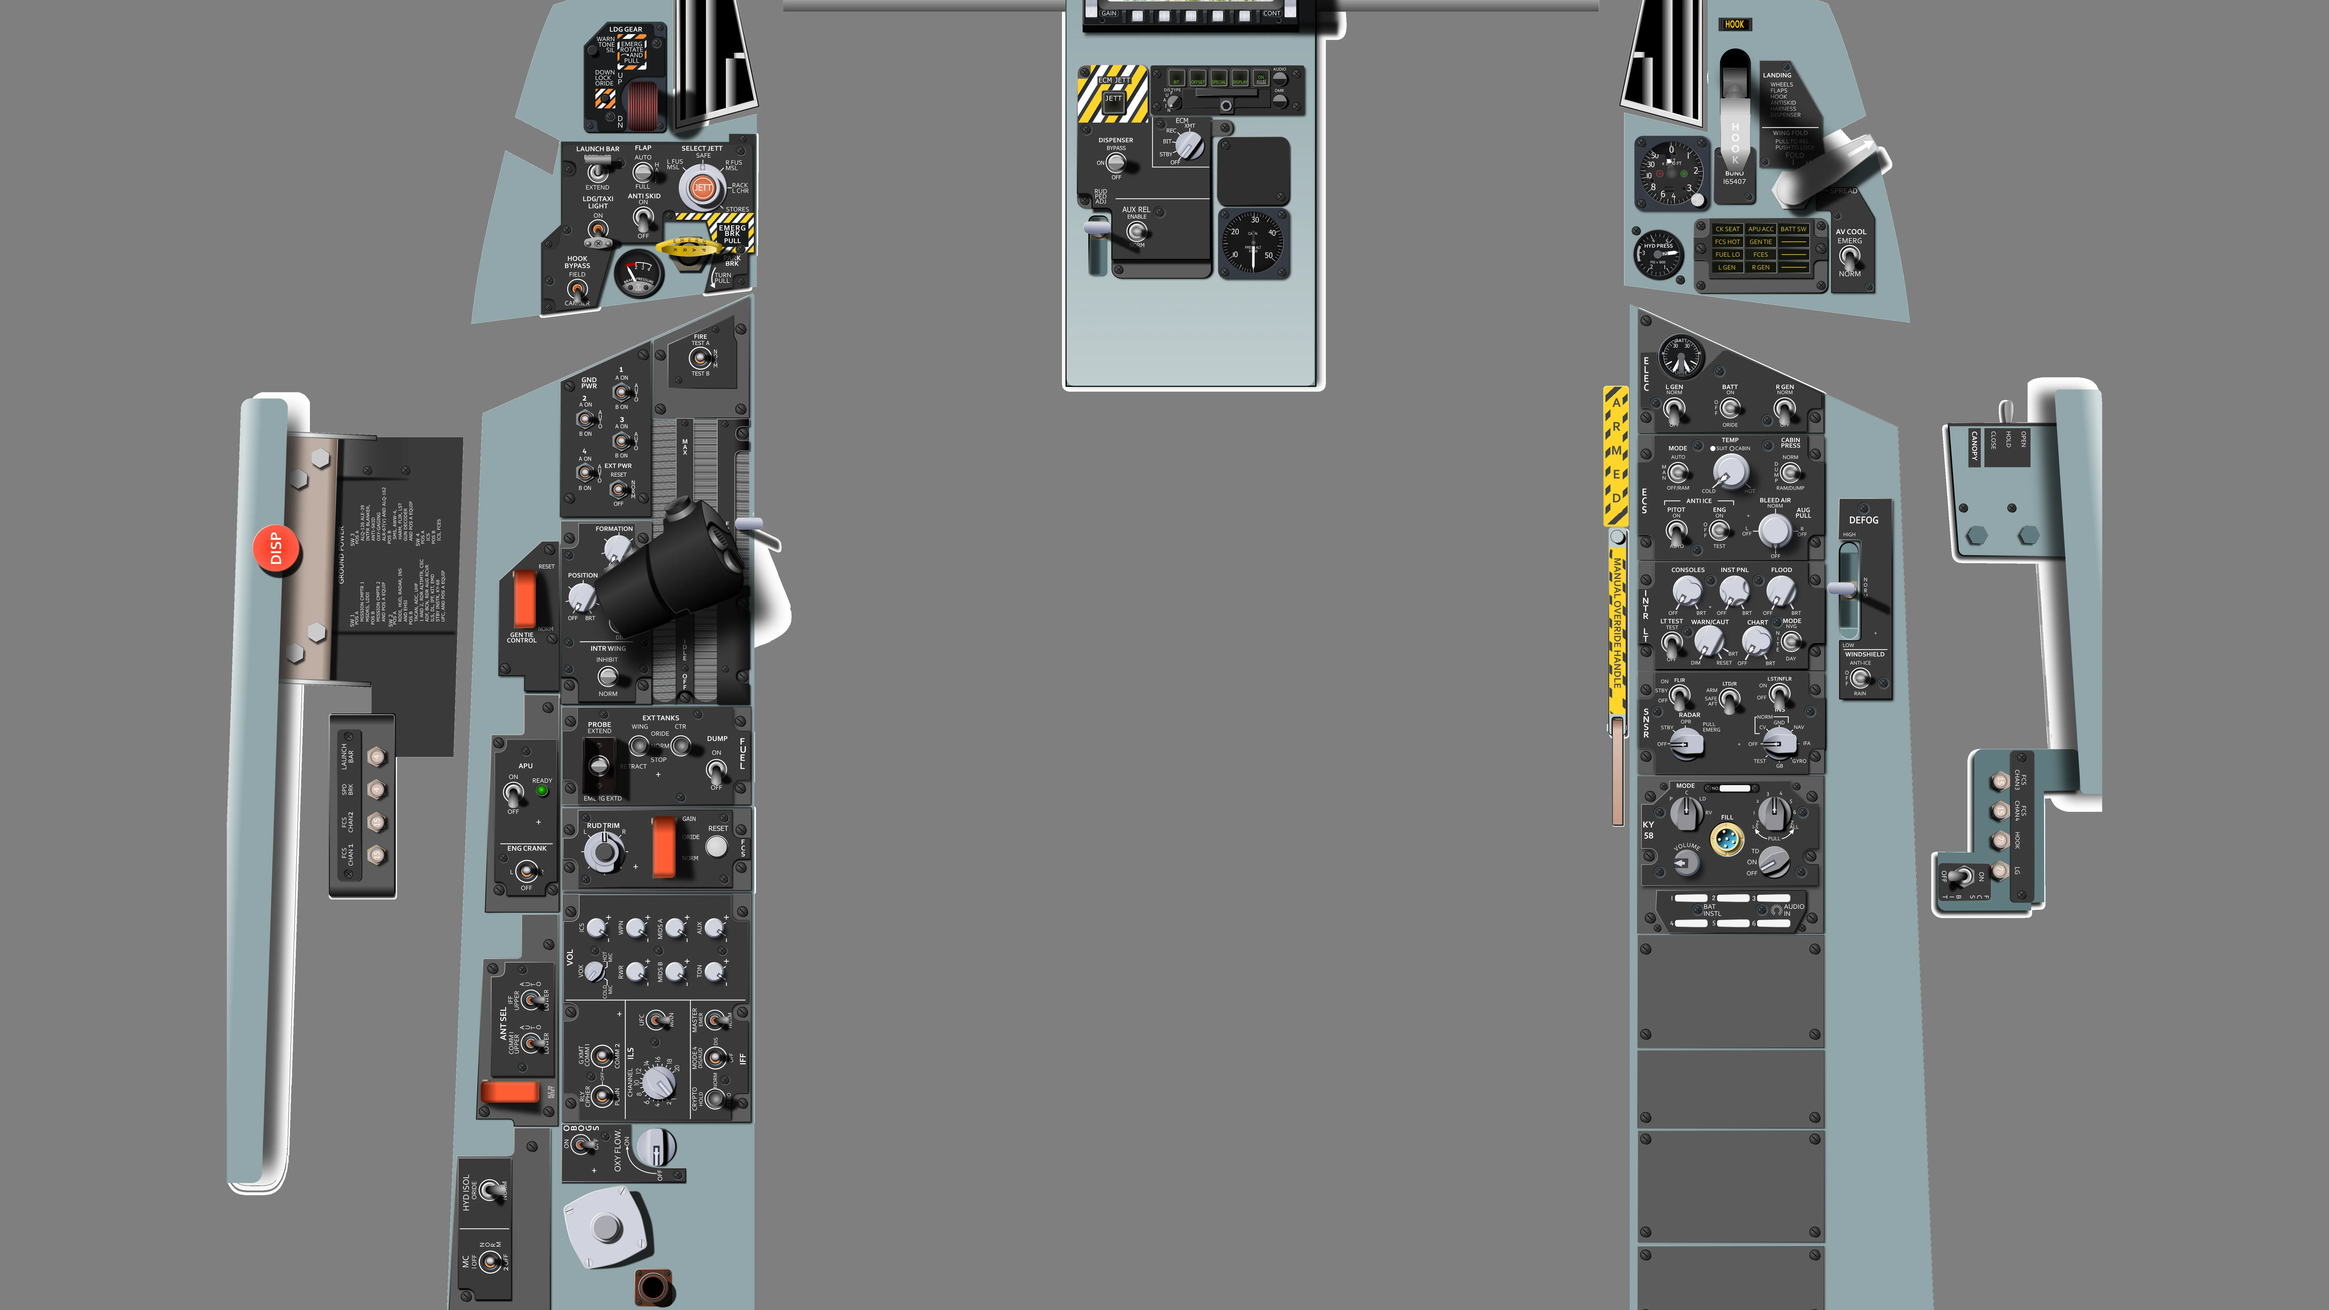
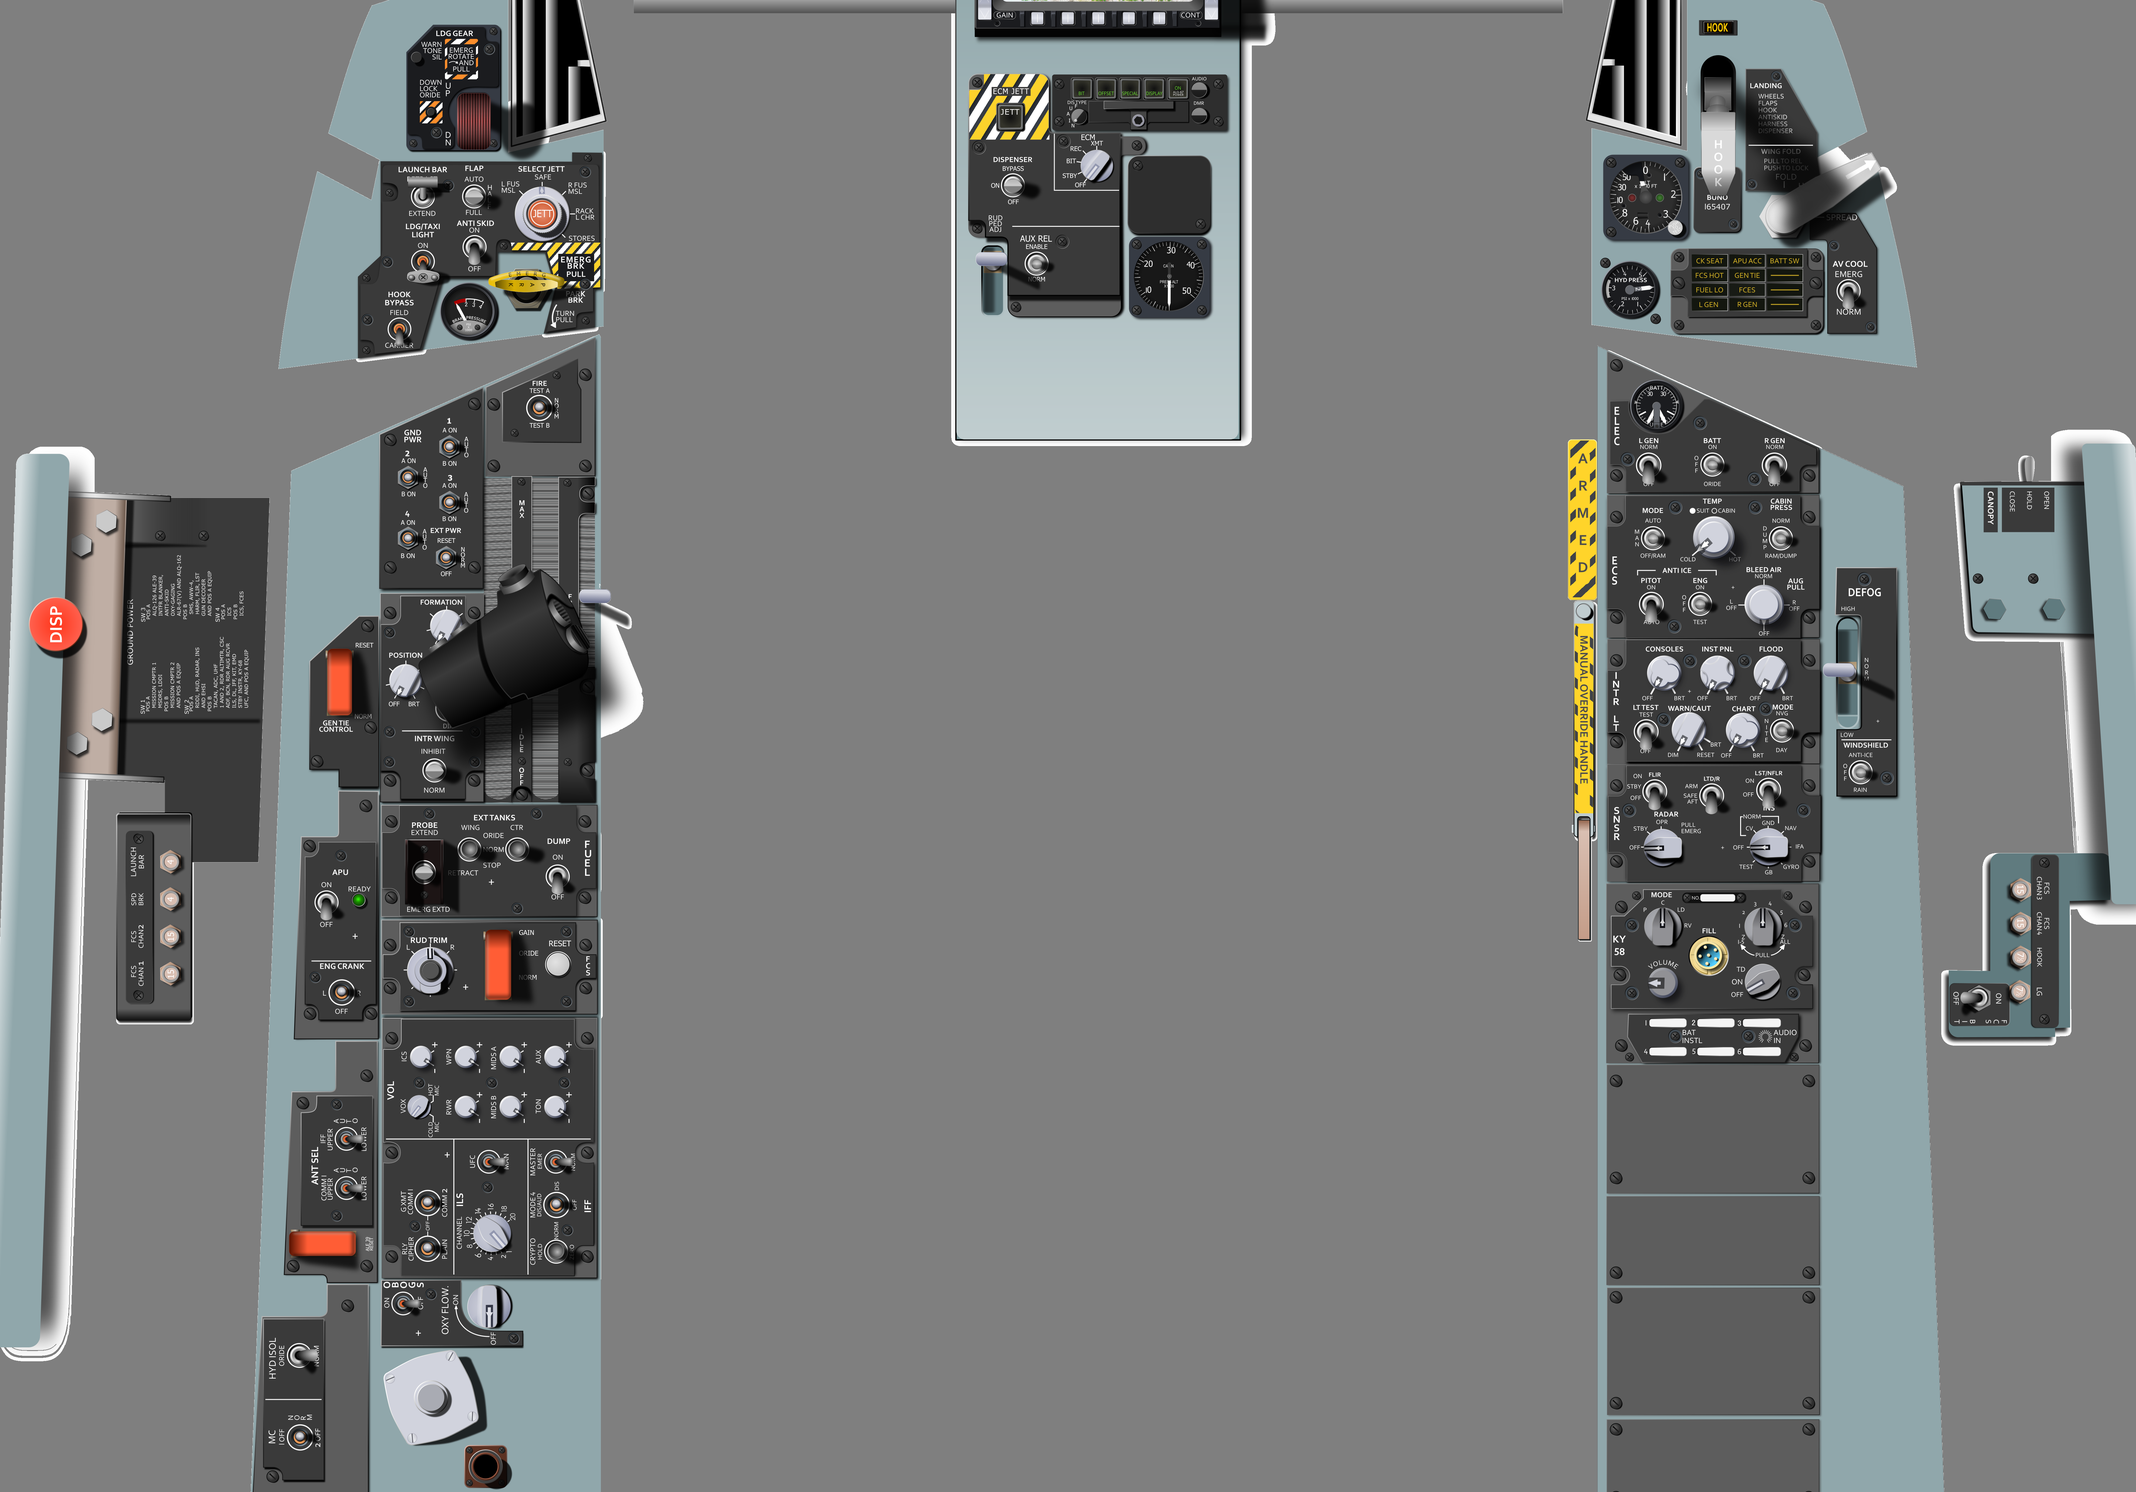
Add files via upload

diff --git a/src/aircraft/fa18c/gauges.js b/src/aircraft/fa18c/gauges.js
@@ -30,6 +30,22 @@ function clock(s) {
   return `${pad((8 + Math.floor(t / 3600)) % 24, 2)}:${pad(Math.floor(t / 60) % 60, 2)}:${pad(t % 60, 2)}`;
 }
 
+/* The IFEI is dead until the battery is on: every window reads blank, which is
+   what the drawing now shows underneath. */
+const on = s => !!s.power;
+
+/* Elapsed time, the second line under TIME — what the ET button runs. */
+function et(s) {
+  const t = Math.floor(s.t);
+  return `${pad(Math.floor(t / 60) % 60, 2)}:${pad(t % 60, 2)}`;
+}
+
+/* Oil pressure is not separately modelled — it is a function of engine speed on
+   a real one too, roughly 40 psi at motoring and a little over 100 at idle, and
+   a window reading a live number that tracks the engine teaches more than a
+   window reading nothing. */
+const oil = e => (e.n2 <= 0 ? 0 : 38 + e.n2 * 1.05);
+
 export const gauges = [
   /* ---------------- the displays, dark until they are powered ------------ */
   { id:'scDdiL', view:'front', kind:'screen', x:370, y:249, w:260, h:272,
@@ -41,17 +57,43 @@ export const gauges = [
   { id:'scIfei', view:'front', kind:'screen', x:391, y:647, w:275, h:195,
     name:'IFEI', led: true, lit: s => s.power },
 
-  /* ---------------- IFEI, the numbers a start-up is flown on ------------- */
-  { id:'dgRpm', view:'front', kind:'chip', x:399, y:657, w:255, h:24, name:'RPM % L / R',
-    read: s => s.power ? `RPM ${n0(s.eng.L.n2)} ${n0(s.eng.R.n2)}` : '' },
-  { id:'dgEgt', view:'front', kind:'chip', x:399, y:687, w:255, h:24, name:'EGT °C L / R',
-    read: s => s.power ? `EGT ${n0(s.eng.L.egt)} ${n0(s.eng.R.egt)}` : '' },
-  { id:'dgFf', view:'front', kind:'chip', x:399, y:717, w:255, h:24, name:'FUEL FLOW pph',
-    read: s => s.power ? `FF  ${n0(s.eng.L.ff)} ${n0(s.eng.R.ff)}` : '' },
-  { id:'dgFuel', view:'front', kind:'chip', x:399, y:747, w:255, h:24, name:'FUEL QUANTITY',
-    read: s => s.power ? `${n0(s.fuel)} LB` : '' },
-  { id:'dgClock', view:'front', kind:'chip', x:399, y:777, w:255, h:24, name:'CLOCK',
-    read: s => s.power ? clock(s) : '' },
+  /* ---------------- IFEI, the numbers a start-up is flown on -------------
+     GENERATED by tools/gen-ifei.mjs from the SAME rect table that paints the
+     printed readings out of the drawing (tools/blank-readouts.py), so a window
+     and the number drawn into it cannot drift apart. Re-cut the views and
+     regenerate; do not nudge these by hand.
+
+     `bare` means the chip has no box of its own — the blanked LCD window it
+     sits in is already the box. That also keeps the whole thing clear of the
+     MODE / QTY / arrows / ZONE / ET column down the middle of the IFEI, which
+     the old full-width chips were covering.
+     ---------------------------------------------------------------------- */
+  { id:'dgRpmL', view:'front', kind:'chip', bare:true, x:405, y:679, w:25, h:16,
+    name:'RPM % L', read: s => on(s) ? n0(s.eng.L.n2) : '' },
+  { id:'dgRpmR', view:'front', kind:'chip', bare:true, x:463, y:679, w:26, h:16,
+    name:'RPM % R', read: s => on(s) ? n0(s.eng.R.n2) : '' },
+  { id:'dgEgtL', view:'front', kind:'chip', bare:true, x:398, y:702, w:33, h:17,
+    name:'EGT °C L', read: s => on(s) ? n0(s.eng.L.egt) : '' },
+  { id:'dgEgtR', view:'front', kind:'chip', bare:true, x:463, y:702, w:37, h:17,
+    name:'EGT °C R', read: s => on(s) ? n0(s.eng.R.egt) : '' },
+  { id:'dgFfL', view:'front', kind:'chip', bare:true, x:393, y:723, w:38, h:17,
+    name:'FUEL FLOW L', read: s => on(s) ? n0(s.eng.L.ff / 100) : '' },
+  { id:'dgFfR', view:'front', kind:'chip', bare:true, x:463, y:723, w:38, h:17,
+    name:'FUEL FLOW R', read: s => on(s) ? n0(s.eng.R.ff / 100) : '' },
+  { id:'dgOilL', view:'front', kind:'chip', bare:true, x:402, y:816, w:29, h:16,
+    name:'OIL PRESS L', read: s => on(s) ? n0(oil(s.eng.L)) : '' },
+  { id:'dgOilR', view:'front', kind:'chip', bare:true, x:463, y:816, w:30, h:16,
+    name:'OIL PRESS R', read: s => on(s) ? n0(oil(s.eng.R)) : '' },
+  { id:'dgFuelT', view:'front', kind:'chip', bare:true, x:580, y:680, w:66, h:18,
+    name:'FUEL TOTAL', read: s => on(s) ? n0(s.fuel) : '' },
+  { id:'dgFuelI', view:'front', kind:'chip', bare:true, x:580, y:706, w:66, h:18,
+    name:'FUEL INTERNAL', read: s => on(s) ? n0(s.fuel) : '' },
+  { id:'dgBingo', view:'front', kind:'chip', bare:true, x:580, y:750, w:58, h:15,
+    name:'BINGO', read: s => on(s) ? '0' : '' },
+  { id:'dgClock', view:'front', kind:'chip', bare:true, x:572, y:792, w:74, h:18,
+    name:'CLOCK', read: s => on(s) ? clock(s) : '' },
+  { id:'dgEt', view:'front', kind:'chip', bare:true, x:572, y:816, w:74, h:17,
+    name:'ELAPSED TIME', read: s => on(s) ? et(s) : '' },
 
   /* ---------------- the alignment, where you actually read it ------------ */
   { id:'dgIns', view:'front', kind:'chip', x:752, y:962, w:300, h:24, name:'INS ALIGNMENT',

diff --git a/src/core/style.css b/src/core/style.css
@@ -68,7 +68,15 @@ button{font-family:inherit;color:inherit;background:none;border:none;cursor:poin
 }
 #viewport{position:absolute;inset:0;overflow:hidden}
 #world{position:absolute;top:0;left:0;transform-origin:0 0;will-change:transform}
-#world img{display:block;width:1920px;height:1080px;user-select:none;-webkit-user-drag:none}
+/* A view image is scaled into the 1920x1080 world box. `contain` lets a view
+   whose region of the artwork is not 16:9 keep its own shape and be
+   letterboxed here rather than in the file -- which is what lets the
+   Hornet consoles ship as the exact pixels of the drawing instead of a
+   43-megapixel padded frame the browser will not reliably decode. The
+   backdrop is the drawing's own grey, so the bars are invisible. No effect
+   on a 16:9 view: it fills the box, as before. */
+#world img{display:block;width:1920px;height:1080px;object-fit:contain;
+  background:#7f7f7f;user-select:none;-webkit-user-drag:none}
 #overlay{position:absolute;top:0;left:0;width:1920px;height:1080px}
 
 /* ---------- hotspots ---------- */
@@ -126,6 +134,11 @@ button{font-family:inherit;color:inherit;background:none;border:none;cursor:poin
 .gchip.dim{color:#546466;border-color:rgba(120,140,140,.22);text-shadow:none;background:rgba(4,9,8,.7)}
 .gchip.hot{color:var(--amber);border-color:rgba(255,176,46,.55);text-shadow:0 0 6px rgba(255,176,46,.5)}
 .gchip.bad{color:var(--red);border-color:rgba(255,74,58,.6);text-shadow:0 0 6px rgba(255,74,58,.5)}
+/* A readout drawn straight into a window that the artwork already provides —
+   the IFEI, whose printed digits are painted out of the photo so these can take
+   their place. No box of its own: the window is the box. */
+.gchip.bare,.gchip.bare.dim{background:none;border:0;border-radius:0}
+.gchip.bare{text-shadow:0 0 5px rgba(65,224,124,.45)}
 
 /* ---------- right rail ---------- */
 #rail{

diff --git a/src/core/views.js b/src/core/views.js
@@ -101,7 +101,7 @@ export function createViews(sim, ac) {
           n.appendChild(chip);
 
         } else if (g.kind === 'chip') {
-          n.className = 'gauge gchip';
+          n.className = 'gauge gchip' + (g.bare ? ' bare' : '');
           n.dataset.id = g.id;
           n.style.fontSize = (g.w < 90 ? 12 : 13) + 'px';
 

diff --git a/sw.js b/sw.js
@@ -6,7 +6,7 @@
 
    Version is a hash of file contents, so any edit invalidates the old cache.
    Regenerate with: python3 tools/build-sw.py */
-const CACHE = 'dcs-trainer-b8b7c2b7';
+const CACHE = 'dcs-trainer-34ae90df';
 const SHELL = [
   "./assets/brand/og-card.png",
   "./assets/brand/vwa-144.png",

diff --git a/src/core/build.js b/src/core/build.js
@@ -1,3 +1,3 @@
 /* Written by tools/build-sw.py. Do not edit. */
-export const BUILD = 'b8b7c2b7';
-export const BUILT = '2026-08-19';
+export const BUILD = '34ae90df';
+export const BUILT = '2026-08-20';

diff --git a/tools/compose-fa18c.py b/tools/compose-fa18c.py
@@ -7,66 +7,84 @@ TWO VIEWS. ONE STRAIGHT CROP EACH. NOTHING IS MOVED.
   panels   EVERYTHING else, in one frame, in true relative position --
            left knee, pedestal, right knee, both consoles, the rails
 
-A region that is not 16:9 is scaled to FIT and centred on the drawing's own
-backdrop. It is never stretched -- a squashed view lies about where things are
--- and it is never padded with cockpit borrowed from somewhere else.
+A region that is not 16:9 keeps its own shape: the browser fits it into the
+1920x1080 box and letterboxes it over the drawing's grey (see `object-fit` in
+style.css). It is never stretched -- a squashed view lies about where things
+are -- and never padded with cockpit borrowed from somewhere else.
 
 RESOLUTION
 ----------
-The app's coordinate world is 1920x1080 and its CSS pins every view image to
-that size, so the hotspot maths below is always done in 1920x1080. The image
-FILE, though, can carry more pixels than that: the browser scales it down to
-1920 CSS px, and when the user zooms in those extra pixels are what they see.
+The app's coordinate world is 1920x1080, so the hotspot maths is always done in
+1920x1080. The image FILE is not: the browser scales it into that box, and when
+the user zooms in, the file's extra pixels are what they see.
 
-Ship each view at the highest multiple that is still a DOWNSCALE of the
-drawing, so zoom reveals real detail and never invented detail:
+Each view is written as the EXACT crop of the drawing -- no resampling in
+either direction, at any stage. What ships is the pixels the artwork has:
 
-  front   4089 px of drawing wide -> 2x (3840) is 0.94 of source
-  panels  7042 px of drawing wide -> 4x (7680, fitted to height) is 0.88
+  front   4089x2300   9.4 Mpx   16:9 already, so it fills the frame
+  panels  7042x4920  34.6 Mpx   1.43:1, letterboxed into the frame by the
+                                browser (`object-fit:contain` in style.css,
+                                over the drawing's own grey)
 
-WebP, because line art at 7680x4320 is 0.5 MB there and 1.6 MB as JPEG, and
-this file is precached for offline use.
+Letting CSS do the letterboxing rather than baking grey bars into the file is
+what makes 1:1 possible at all. Bars baked in would push the panels file to
+8752x4923 = 43 Mpx for the same amount of cockpit, and Chrome starts refusing
+to decode around there -- measured: a 43 Mpx decode fails outright once a
+second one is live, where 34.6 Mpx is steady at about a second.
+
+Going higher would only be upscaling. The drawing has no more detail to give,
+and inventing some would be a lie about a cockpit.
+
+Lossless, so what reaches the screen is the drawing and not an approximation
+of it.
+
+BLANKED NUMBERS
+---------------
+The drawing has readings printed on it -- 99% RPM, 8,070 lb, 8:00:39. Those are
+painted out here (see blank.py) and the app draws live ones into the same
+windows, so the IFEI reads what the model is actually doing.
 """
-import json, os
+import json, os, sys
 from PIL import Image
 
-Image.MAX_IMAGE_PIXELS = None
-SRC = Image.open('/home/claude/f18-work/base_grey.png').convert('RGB')
-W, H = 1920, 1080                 # the coordinate world; never changes
-BACKDROP = (127, 127, 127)        # the drawing's own grey, so padding is invisible
+sys.path.insert(0, os.path.dirname(os.path.abspath(__file__)))
+import blank_readouts as blank
 
-# (x0, y0, x1, y1) in the drawing, which is FA18C_grey cropped at (560, 1250),
-# and the pixel multiple the image file is written at.
+# The drawing, cropped from the artwork the trainer was built against
+# (FA18C_grey.png at 560,1250 -> 8130,10090). Override with:
+#   python3 tools/compose-fa18c.py /path/to/base_grey.png
+DRAWING = sys.argv[1] if len(sys.argv) > 1 else 'art/base_grey.png'
+
+Image.MAX_IMAGE_PIXELS = None
+SRC = Image.open(DRAWING).convert('RGB')
+n = blank.apply(SRC)
+print(f'blanked {n} printed readouts')
+
+W, H = 1920, 1080                 # the coordinate world; never changes
+
+# (x0, y0, x1, y1) in the drawing. Nothing else: the file IS this crop.
 VIEWS = {
-  # 16:9 exactly, so it fills the frame: forward panel, UFC, IFEI, AMPCD, standby
-  'front':  ((1790, 1600, 5879, 3900), 2),
-  # everything below the glare shield, in one piece. Taller than 16:9, so it is
-  # fitted to the height and centred.
-  'panels': (( 105, 3700, 7147, 8620), 4),
+  # 16:9 exactly: forward panel, UFC, IFEI, AMPCD, standby instruments
+  'front':  (1790, 1600, 5879, 3900),
+  # everything below the glare shield, in one piece, in true relative position
+  'panels': ( 105, 3700, 7147, 8620),
 }
 
 os.makedirs('assets', exist_ok=True)
 layout = {}
-for name, ((x0, y0, x1, y1), mult) in VIEWS.items():
+for name, (x0, y0, x1, y1) in VIEWS.items():
     sw, sh = x1 - x0, y1 - y0
-    k = min(W / sw, H / sh)                 # fit, never fill, never stretch
-    dw, dh = round(sw * k), round(sh * k)
-    dx, dy = (W - dw) // 2, (H - dh) // 2
-
-    # the same placement, rendered at `mult` times the pixel density
-    fw, fh = W * mult, H * mult
-    frame = Image.new('RGB', (fw, fh), BACKDROP)
-    piece = SRC.crop((x0, y0, x1, y1)).resize((dw * mult, dh * mult), Image.LANCZOS)
-    frame.paste(piece, (dx * mult, dy * mult))
+    piece = SRC.crop((x0, y0, x1, y1))
     path = f'assets/{name}.webp'
-    frame.save(path, format='WEBP', quality=84, method=6)
+    piece.save(path, format='WEBP', lossless=True, method=5)
 
-    # hotspots live in the 1920x1080 world, so the transform recorded here is
-    # the 1x one -- the extra pixels are invisible to the coordinate maths.
+    # Where CSS will put it: contain-fit into 1920x1080, centred. The hotspot
+    # generator reads this, so the picture and the hitboxes come from one sum.
+    k = min(W / sw, H / sh)
+    dx, dy = (W - round(sw * k)) // 2, (H - round(sh * k)) // 2
     layout[name] = [dict(src=[x0, y0, sw, sh], dst=[dx, dy], scale=k)]
-    print(f'{name:7} {sw:5}x{sh:5} of drawing  world scale {k:.3f}  '
-          f'file {fw}x{fh} ({mult}x, {dw*mult/sw:.2f} of source)  '
-          f'{os.path.getsize(path)/1e6:5.2f} MB')
+    print(f'{name:7} {sw}x{sh} = {sw*sh/1e6:.1f} Mpx exact  '
+          f'world scale {k:.4f} at ({dx},{dy})  {os.path.getsize(path)/1e6:5.2f} MB')
 
 json.dump(layout, open('layout.json', 'w'), indent=1)
-print('\nwrote layout.json')
+print('wrote layout.json')

diff --git a/tools/blank_readouts.py b/tools/blank_readouts.py
@@ -1,0 +1,37 @@
+"""
+The drawing has numbers printed on it. This blanks them so the app can put live
+ones in the same windows.
+
+Every rect below is an LCD window on the IFEI, measured off the drawing at
+magnification. Filling one with the window's own unlit colour leaves the window,
+its bezel and its printed label alone and takes away only the digits — so the
+panel still looks like a panel, it just reads blank until the jet is powered.
+
+Coordinates are pixels in base_grey.png (the drawing cropped at 560,1250).
+"""
+IFEI_OFF = (24, 21, 33)          # the unlit face of an IFEI window
+
+# id                    x0    y0    x1    y1
+BLANK = [
+  ('ifeiRpmL',        2653, 3046, 2706, 3081),
+  ('ifeiRpmR',        2777, 3046, 2833, 3081),
+  ('ifeiTempL',       2638, 3094, 2708, 3131),
+  ('ifeiTempR',       2777, 3094, 2856, 3131),
+  ('ifeiFfL',         2628, 3139, 2708, 3176),
+  ('ifeiFfR',         2777, 3139, 2858, 3176),
+  ('ifeiOilL',        2647, 3337, 2708, 3372),
+  ('ifeiOilR',        2777, 3337, 2840, 3372),
+  ('ifeiFuel1',       3025, 3049, 3165, 3087),
+  ('ifeiFuel2',       3025, 3104, 3165, 3142),
+  ('ifeiBingo',       3025, 3198, 3149, 3231),
+  ('ifeiTime1',       3009, 3286, 3167, 3324),
+  ('ifeiTime2',       3009, 3338, 3167, 3374),
+]
+
+def apply(img):
+    """Paint every window out. Returns the count, for the build log."""
+    from PIL import ImageDraw
+    d = ImageDraw.Draw(img)
+    for _id, x0, y0, x1, y1 in BLANK:
+        d.rectangle([x0, y0, x1 - 1, y1 - 1], fill=IFEI_OFF)
+    return len(BLANK)
